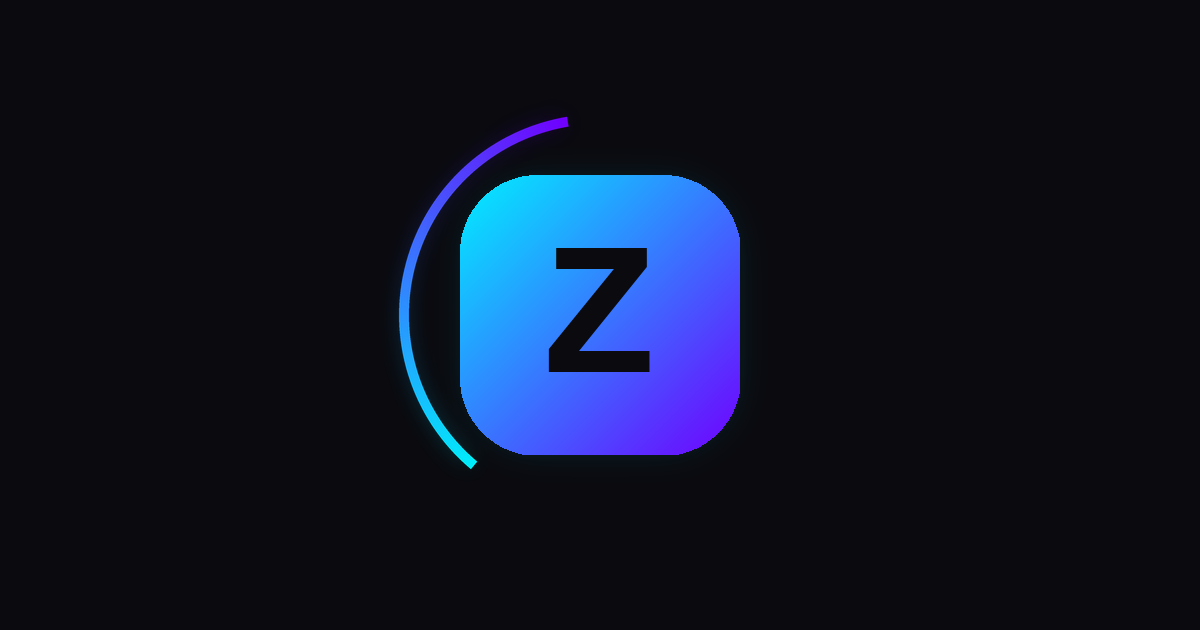
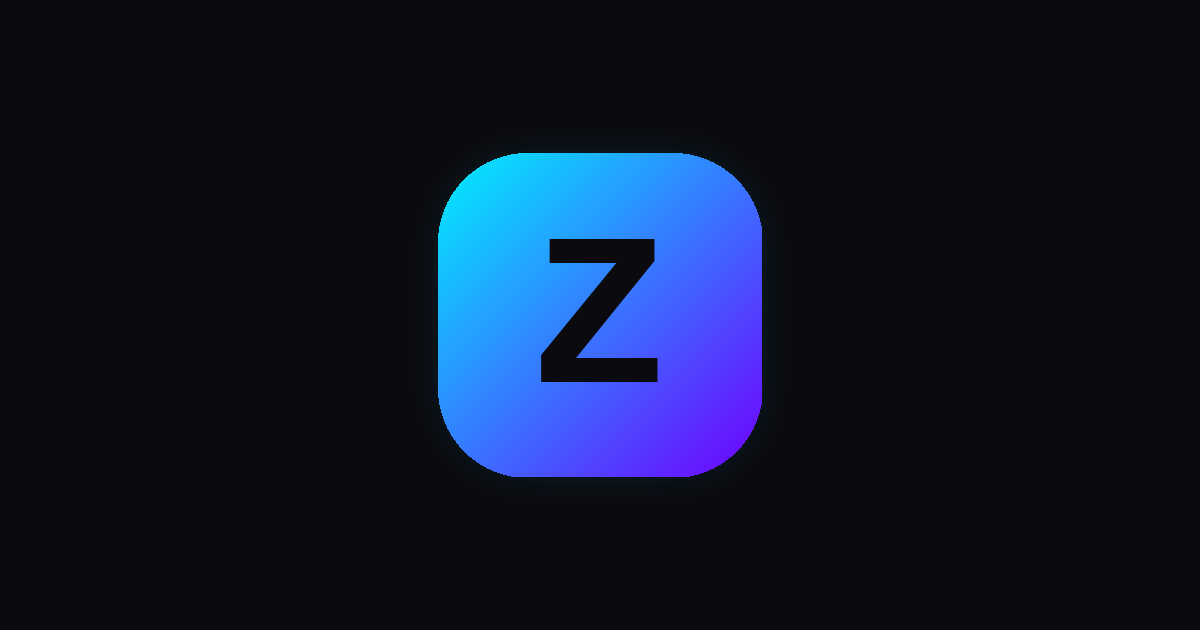
Fix split: multi-items use form split, no split_group for single items, validate pct sum
- saveMultiItems now reads form.split_people when items lack their own split_with
- split_group only assigned when 2+ items go to the same person (fixes '1 gasto' label in cobros)
- saveExpense validates splitSum === 100 before saving
- Toast mentions cobros when split rows are created
- SW cache → v33, OG icon regenerated without orbital ring

Changed region(s): [[0.3083, 0.181, 0.6475, 0.7841], [0.4317, 0.4825, 0.555, 0.6333], [0.4317, 0.3619, 0.555, 0.4825]]

diff --git a/index.html b/index.html
@@ -637,13 +637,21 @@
       margin: 0 auto;
       background: var(--bg);
       z-index: 101;
+      overflow: hidden;
+      display: flex;
+      flex-direction: column;
+    }
+    /* Área scrollable interna — iOS no puede scrollear .approve-screen (overflow:hidden) */
+    .approve-body {
+      flex: 1;
       overflow-y: auto;
       -webkit-overflow-scrolling: touch;
     }
+    .approve-screen.with-input-bar .approve-body { padding-bottom: 96px; }
     .approve-header {
       display: flex; align-items: center; gap: 12px;
       padding: calc(var(--safe-top) + 14px) 20px 12px;
-      position: sticky; top: 0; background: var(--bg); z-index: 10;
+      background: var(--bg); flex-shrink: 0;
     }
     .approve-back {
       width: 36px; height: 36px; border-radius: 18px;
@@ -1090,8 +1098,7 @@
       font-size: 11px; color: var(--text); text-align: center; line-height: 1.2;
     }
 
-    /* Approve screen necesita padding-bottom para no quedar tapado por la input bar */
-    .approve-screen.with-input-bar { padding-bottom: 96px; }
+    /* padding-bottom movido a .approve-body (ver .approve-screen.with-input-bar .approve-body) */
 
     /* Monto display siempre visible (en add mode) */
     .monto-display {
@@ -2603,7 +2610,6 @@
   </div>
 
   <button id="ig-install-btn" class="ig-btn" style="display:none;">Instalar app</button>
-  <button id="ig-copy-btn" class="ig-btn" style="display:none;background:#13131A;color:#fff;border:1px solid #00F0FF;box-shadow:0 0 0 1px rgba(0,240,255,0.15);">Copiar enlace</button>
   <div class="ig-foot">Una vez instalado, ya no verás esta pantalla.</div>
 </div>
 
@@ -2627,7 +2633,6 @@
       document.getElementById('ig-ios-nonsafari').style.display = (p === 'ios' && isIOSNonSafari) ? 'block' : 'none';
       document.getElementById('ig-desktop').style.display = (p === 'desktop') ? 'block' : 'none';
       document.getElementById('ig-install-btn').style.display = (p === 'android') ? 'block' : 'none';
-      document.getElementById('ig-copy-btn').style.display = (p === 'ios') ? 'block' : 'none';
       var tabs = document.querySelectorAll('#ig-tabs .ig-tab');
       tabs.forEach(function(t) {
         t.classList.toggle('active', t.getAttribute('data-platform') === p);
@@ -2645,22 +2650,6 @@
       });
     }
 
-    document.getElementById('ig-copy-btn').addEventListener('click', function() {
-      var url = window.location.origin + window.location.pathname;
-      var btn = this;
-      var done = function() {
-        var orig = btn.textContent;
-        btn.textContent = '¡Copiado!';
-        setTimeout(function() { btn.textContent = orig; }, 1800);
-      };
-      if (navigator.clipboard && navigator.clipboard.writeText) {
-        navigator.clipboard.writeText(url).then(done).catch(function() {
-          window.prompt('Copia este enlace y ábrelo en Safari:', url);
-        });
-      } else {
-        window.prompt('Copia este enlace y ábrelo en Safari:', url);
-      }
-    });
 
     var deferredPrompt = null;
     window.addEventListener('beforeinstallprompt', function(e) {
@@ -4664,7 +4653,8 @@
               </button>
             </div>
 
-            <!-- Main content area -->
+            <!-- Main content area — dentro de approve-body (overflow-y:auto) -->
+            <div class="approve-body">
             <div style="padding:0 20px 32px;">
 
               <!-- ═════════ CREATE MODE: nuevo orden ═════════ -->
@@ -5116,6 +5106,7 @@
               </div>
 
             </div>
+            </div><!-- end approve-body -->
           </div>
 
           <!-- ═════════ BOTTOM INPUT BAR (solo create mode) ═════════ -->
@@ -7597,6 +7588,7 @@ function zepoApp() {
       }
       if (!this.form.amount) return this.showToast('Ingresa un monto');
       if (!this.form.category) return this.showToast('Selecciona una categoría');
+      if (this.form.is_split && this.splitSum !== 100) return this.showToast('Los porcentajes deben sumar 100%');
       if (!this.form.date) this.form.date = localDate();
       if (this.userPlan === 'free' && !this.editingExpense && this.monthExpenses.length >= 10) {
         this.showToast('Límite de 10 gastos/mes alcanzado');
@@ -7693,21 +7685,42 @@ function zepoApp() {
       this.saving = true;
       try {
         const date = this.form.date || localDate();
-        // Items divididos con la misma persona comparten un split_group → un cobro consolidado.
+
+        // Split desde el formulario (form.is_split) — se aplica a ítems sin split_with propio.
+        const tuPerson = this.form.is_split && this.form.split_people
+          ? this.form.split_people.find(p => p.you) : null;
+        const formPct = tuPerson ? (parseFloat(tuPerson.pct) || 50) : 50;
+        const formOthers = this.form.is_split && this.form.split_people
+          ? this.form.split_people.filter(p => !p.you).map(p => (p.name || '').trim()).filter(Boolean)
+          : [];
+        const formSplitWith = formOthers.length > 0 ? formOthers.join(', ') : null;
+
+        // Contar ítems por persona: split_group solo si 2+ ítems van a la misma persona.
+        const validItems = this.parsedItems.filter(it => it.amount > 0 && it.category);
+        const personCount = {};
+        validItems.forEach(it => {
+          const p = (it.split_with || formSplitWith || '').trim();
+          if (p) personCount[p] = (personCount[p] || 0) + 1;
+        });
+
         const groupByPerson = {};
-        const rows = this.parsedItems
-          .filter(it => it.amount > 0 && it.category)
-          .map(it => {
-            const person = (it.split_with || '').trim();
+        const rows = validItems.map(it => {
+            const person = (it.split_with || formSplitWith || '').trim();
             if (person) {
               const total = it.amount;
-              const pct = (it.split_pct > 0 && it.split_pct < 100) ? it.split_pct : 50;
+              const pct = it.split_with
+                ? ((it.split_pct > 0 && it.split_pct < 100) ? it.split_pct : 50)
+                : formPct;
               const miParte = Math.round(total * pct / 100 * 100) / 100;
               const pendiente = Math.round((total - miParte) * 100) / 100;
-              if (!groupByPerson[person]) {
-                groupByPerson[person] = (crypto.randomUUID
-                  ? crypto.randomUUID()
-                  : ('g' + Date.now() + Math.random().toString(36).slice(2)));
+              let splitGroup = null;
+              if (personCount[person] >= 2) {
+                if (!groupByPerson[person]) {
+                  groupByPerson[person] = (crypto.randomUUID
+                    ? crypto.randomUUID()
+                    : ('g' + Date.now() + Math.random().toString(36).slice(2)));
+                }
+                splitGroup = groupByPerson[person];
               }
               return {
                 user_id: this.user.id,
@@ -7722,7 +7735,7 @@ function zepoApp() {
                 split_persona: person,
                 split_pending: pendiente,
                 split_status: 'pendiente',
-                split_group: groupByPerson[person],
+                split_group: splitGroup,
               };
             }
             return {
@@ -7750,7 +7763,9 @@ function zepoApp() {
           await sbRestInsert('expenses', rows);
         }
         const anySplit = rows.some(r => r.is_split);
-        this.showToast(rows.length === 1 ? 'Registro guardado' : (rows.length + ' registros guardados'));
+        this.showToast(rows.length === 1
+          ? (anySplit ? '💸 Split guardado' : 'Registro guardado')
+          : (anySplit ? rows.length + ' registros · cobros creados' : rows.length + ' registros guardados'));
         this.parsedItems = [];
         this.sheetOpen = false;
         await this.loadExpenses();

diff --git a/sw.js b/sw.js
@@ -1,4 +1,4 @@
-const CACHE_NAME = 'zepo-v32';
+const CACHE_NAME = 'zepo-v33';
 const ASSETS = [
   './manifest.json',
   'https://cdn.jsdelivr.net/npm/@supabase/supabase-js@2/dist/umd/supabase.min.js',
